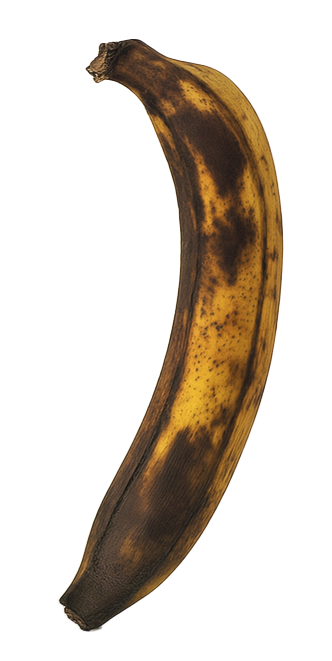
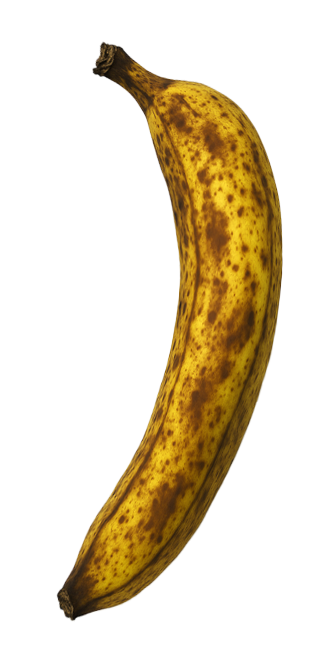
Add new banana stage images and update color calculation logic in the "Banana Go Bad" app

Changed region(s): [[0.1506, 0.0605, 0.8735, 0.9682]]

diff --git a/script.js b/script.js
@@ -78,17 +78,18 @@ class BananaTimer {
     }
     
     updateBananaColor(percentage) {
-        // Calculate which stage to show (1-10)
+        // Calculate which stage to show (1-11)
         let stage = 1;
-        if (percentage >= 11.11) stage = 2;
-        if (percentage >= 22.22) stage = 3;
-        if (percentage >= 33.33) stage = 4;
-        if (percentage >= 44.44) stage = 5;
-        if (percentage >= 55.55) stage = 6;
-        if (percentage >= 66.66) stage = 7;
-        if (percentage >= 77.77) stage = 8;
-        if (percentage >= 88.88) stage = 9;
-        if (percentage >= 100) stage = 10;
+        if (percentage >= 9.09) stage = 2;
+        if (percentage >= 18.18) stage = 3;
+        if (percentage >= 27.27) stage = 4;
+        if (percentage >= 36.36) stage = 5;
+        if (percentage >= 45.45) stage = 6;
+        if (percentage >= 54.54) stage = 7;
+        if (percentage >= 63.63) stage = 8;
+        if (percentage >= 72.72) stage = 9;
+        if (percentage >= 81.81) stage = 10;
+        if (percentage >= 90.90) stage = 11;
         // Hide all images
         const images = this.banana.querySelectorAll('.banana-image');
         images.forEach(img => img.classList.remove('active'));

diff --git a/index.html b/index.html
@@ -25,6 +25,7 @@
                     <img src="Banana/Banana_08.png" alt="Very dark brown banana" class="banana-image" data-stage="8">
                     <img src="Banana/Banana_09.png" alt="Nearly black banana" class="banana-image" data-stage="9">
                     <img src="Banana/Banana_10.png" alt="Completely rotten banana" class="banana-image" data-stage="10">
+                    <img src="Banana/Banana_11.png" alt="Fully decomposed banana" class="banana-image" data-stage="11">
                 </div>
             </div>
             <div class="timer" id="timer">30</div>
@@ -39,6 +40,7 @@
                 <img src="Banana/Banana_08.png" class="banana-thumb" data-stage="8" alt="Stage 8">
                 <img src="Banana/Banana_09.png" class="banana-thumb" data-stage="9" alt="Stage 9">
                 <img src="Banana/Banana_10.png" class="banana-thumb" data-stage="10" alt="Stage 10">
+                <img src="Banana/Banana_11.png" class="banana-thumb" data-stage="11" alt="Stage 11">
             </div>
         </div>
     </div>
